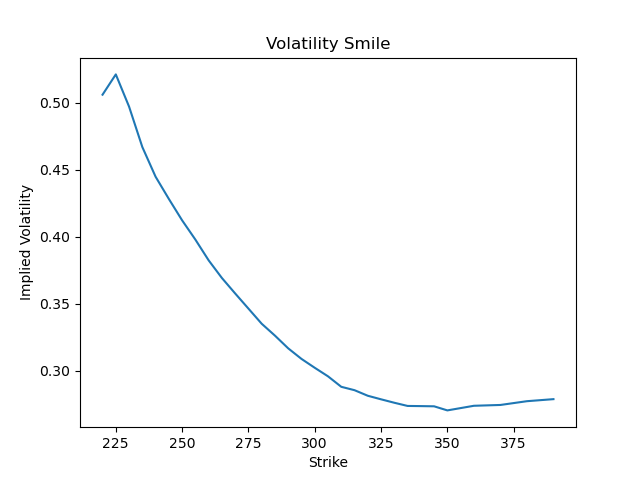
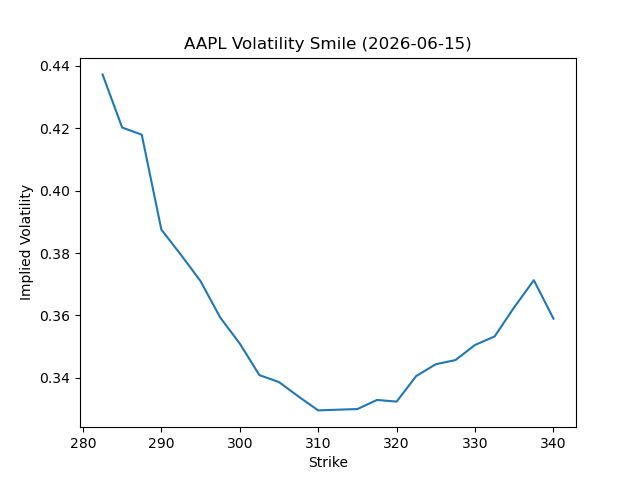
Fix IV solver bounds, refactor market smile pipeline, polish docs

diff --git a/main.py b/main.py
@@ -5,46 +5,47 @@ from monte_carlo import MonteCarlo
 from vol_smile import VolSmile
 import numpy as np
 
-Testc = OptionContract(S=100, K=100, T=1, r=0.05, sigma=0.2, option_type='call')
-Testp = OptionContract(S=100, K=100, T=1, r=0.05, sigma=0.2, option_type='put')
-resultcbs = BlackScholes(Testc)
-resultpbs = BlackScholes(Testp)
-resultbc = Binomial(Testc, 1000)
-resultbp = Binomial(Testp, 1000)
-resultmcc = MonteCarlo(Testc)
-resultmcp = MonteCarlo(Testp)
-strikes = np.linspace(80, 120, 20)
-market_prices = [BlackScholes(OptionContract(100, i, 1, 0.05, 0.2 + 0.1 * ((i - 100) / 100) ** 2, 'call')).price() for i in strikes]
-pricec, cic = resultmcc.price_with_ci()
-pricep, cip = resultmcp.price_with_ci()
+if __name__ == "__main__":
+    Testc = OptionContract(S=100, K=100, T=1, r=0.05, sigma=0.2, option_type='call')
+    Testp = OptionContract(S=100, K=100, T=1, r=0.05, sigma=0.2, option_type='put')
+    resultcbs = BlackScholes(Testc)
+    resultpbs = BlackScholes(Testp)
+    resultbc = Binomial(Testc, 1000)
+    resultbp = Binomial(Testp, 1000)
+    resultmcc = MonteCarlo(Testc)
+    resultmcp = MonteCarlo(Testp)
+    strikes = np.linspace(80, 120, 20)
+    market_prices = [BlackScholes(OptionContract(100, i, 1, 0.05, 0.2 + 0.1 * ((i - 100) / 100) ** 2, 'call')).price() for i in strikes]
+    pricec, cic = resultmcc.price_with_ci()
+    pricep, cip = resultmcp.price_with_ci()
 
-print('\n===Black Scholes===')
-print(f'Call price: {resultcbs.price():.4f}')
-print(f'Put price: {resultpbs.price():.4f}')
-print('\n===Greeks===')
-print(f'Call: \nDelta: {resultcbs.delta():.4f}, Gamma: {resultcbs.gamma():.4f}, Vega = {resultcbs.vega():.4f}, Theta = {resultcbs.theta():.4f}, Rho = {resultcbs.rho():.4f}')
-print(f'Put: \nDelta: {resultpbs.delta():.4f}, Gamma: {resultpbs.gamma():.4f}, Vega = {resultpbs.vega():.4f}, Theta = {resultpbs.theta():.4f}, Rho = {resultpbs.rho():.4f}')
-print('\n===Binomial===')
-print(f'European Call price: {resultbc.price():.4f}')
-print(f'European Put price: {resultbp.price():.4f}')
-print(f'American Call price: {resultbc.price_american():.4f}') #Added for completleness, in reality never optimal to exit early
-print(f'American Put price: {resultbp.price_american():.4f}')
-print('\n===Monte Carlo===')
-print(f'European Call price: {resultmcc.price():.4f}')
-print(f'European Put price: {resultmcp.price():.4f}')
-print(f'European Call 95% CI: [{cic[0]:.4f}, {cic[1]:.4f}]')
-print(f'European Put 95% CI: [{cip[0]:.4f}, {cip[1]:.4f}]')
-print(f'Asian Call price: {resultmcc.price_asian():.4f}')
-print(f'Asian Put price: {resultmcp.price_asian():.4f}')
-print(f'Barrier Call price: {resultmcc.price_barrier(90, "d_o"):.4f}')
-print(f'Barrier Put price: {resultmcp.price_barrier(90, "d_o"):.4f}')
-print('\n===IV Solver===')
-print(f'Implied Volatility: {resultcbs.IV_solver(resultcbs.price()):.4f}')
-print('\n===Volatility Smile===')
-print('Generating volatility smile plots: one synthetic, one from real AAPL market data...')
-VolSmile(Testc, strikes, market_prices).plot()
-VolSmile(Testc, strikes, market_prices).plot_market_smile('AAPL', '2026-09-18')
-print('\n===Convergence Plots===')
-print('Generating convergence plots for Binomial and Monte Carlo...')
-resultbc.plot_convergence()
-resultmcc.plot_convergence()
+    print('\n===Black Scholes===')
+    print(f'Call price: {resultcbs.price():.4f}')
+    print(f'Put price: {resultpbs.price():.4f}')
+    print('\n===Greeks===')
+    print(f'Call: \nDelta: {resultcbs.delta():.4f}, Gamma: {resultcbs.gamma():.4f}, Vega = {resultcbs.vega():.4f}, Theta = {resultcbs.theta():.4f}, Rho = {resultcbs.rho():.4f}')
+    print(f'Put: \nDelta: {resultpbs.delta():.4f}, Gamma: {resultpbs.gamma():.4f}, Vega = {resultpbs.vega():.4f}, Theta = {resultpbs.theta():.4f}, Rho = {resultpbs.rho():.4f}')
+    print('\n===Binomial===')
+    print(f'European Call price: {resultbc.price():.4f}')
+    print(f'European Put price: {resultbp.price():.4f}')
+    print(f'American Call price: {resultbc.price_american():.4f}') #Added for completeness, in reality never optimal to exit early (assuming no dividends)
+    print(f'American Put price: {resultbp.price_american():.4f}')
+    print('\n===Monte Carlo===')
+    print(f'European Call price: {resultmcc.price():.4f}')
+    print(f'European Put price: {resultmcp.price():.4f}')
+    print(f'European Call 95% CI: [{cic[0]:.4f}, {cic[1]:.4f}]')
+    print(f'European Put 95% CI: [{cip[0]:.4f}, {cip[1]:.4f}]')
+    print(f'Asian Call price: {resultmcc.price_asian():.4f}')
+    print(f'Asian Put price: {resultmcp.price_asian():.4f}')
+    print(f'Barrier Call price: {resultmcc.price_barrier(90, "d_o"):.4f}')
+    print(f'Barrier Put price: {resultmcp.price_barrier(90, "d_o"):.4f}')
+    print('\n===IV Solver===')
+    print(f'Implied Volatility: {resultcbs.iv_solver(resultcbs.price()):.4f}')
+    print('\n===Volatility Smile===')
+    print('Generating volatility smile plots: one synthetic, one from real AAPL market data...')
+    VolSmile(Testc, strikes, market_prices).plot()
+    VolSmile(Testc, strikes, market_prices).plot_market_smile('AAPL')
+    print('\n===Convergence Plots===')
+    print('Generating convergence plots for Binomial and Monte Carlo...')
+    resultbc.plot_convergence()
+    resultmcc.plot_convergence()

diff --git a/vol_smile.py b/vol_smile.py
@@ -3,6 +3,7 @@ from option_contract import OptionContract
 from black_scholes import BlackScholes 
 import matplotlib.pyplot as plt
 import yfinance as yf
+from datetime import datetime
 
 class VolSmile:
     def __init__(self, option: OptionContract, strike_prices: np.ndarray, market_prices: np.ndarray):
@@ -15,7 +16,7 @@ class VolSmile:
             S, T, r, sigma, option_type = self.option.S, self.option.T, self.option.r, self.option.sigma, self.option.option_type
             contract = OptionContract(S, K, T, r, sigma, option_type)
             bs = BlackScholes(contract)
-            iv = bs.IV_solver(market_price)
+            iv = bs.iv_solver(market_price)
             ivs.append(iv)
         return np.array(ivs)
     def plot(self):
@@ -25,14 +26,36 @@ class VolSmile:
         plt.ylabel('Implied Volatility')
         plt.title('Volatility Smile')
         plt.show()
-    def plot_market_smile(self, ticker: str, expiry: str):
+    def plot_market_smile(self, ticker: str, expiry: str = None):
         tk = yf.Ticker(ticker)
+        if expiry is None:
+            expiry = tk.options[3]
         chain = tk.option_chain(expiry)
         calls = chain.calls
         spot = tk.info['currentPrice']
-        calls = calls[(calls['strike'] > 0.7 * spot) & (calls['strike'] < 1.3 * spot)]
-        plt.plot(calls['strike'], calls['impliedVolatility'])
+        T = (datetime.strptime(expiry, '%Y-%m-%d') - datetime.today()).total_seconds() / (365 * 24 * 3600)
+        calls = calls[
+            (calls['strike'] > 0.7 * spot) &
+            (calls['strike'] < 1.3 * spot) &
+            (calls['bid'] > 0) &
+            (calls['ask'] > 0)
+        ].copy()
+        mid_prices = (calls['bid'] + calls['ask']) / 2
+        r = self.option.r
+        sigma_init = self.option.sigma
+        ivs = []
+        for K, market_price in zip(calls['strike'], mid_prices):
+            try:
+                contract = OptionContract(spot, K, T, r, sigma_init, 'call')
+                iv = BlackScholes(contract).iv_solver(market_price)
+            except (ValueError, RuntimeError):
+                iv = np.nan
+            ivs.append(iv)
+        strikes = calls['strike'].to_numpy()
+        ivs = np.array(ivs)
+        mask = ~np.isnan(ivs)
+        plt.plot(strikes[mask], ivs[mask])
         plt.xlabel('Strike')
         plt.ylabel('Implied Volatility')
-        plt.title('Volatility Smile')
+        plt.title(f'{ticker} Volatility Smile ({expiry})')
         plt.show()

diff --git a/black_scholes.py b/black_scholes.py
@@ -51,12 +51,15 @@ class BlackScholes:
         else:
             rho = -K * T * np.exp(-r * T) * norm.cdf(-d2)
         return rho / 100 #per 1% change in risk-free interest rate
-    def IV_solver(self, market_price):
+    def iv_solver(self, market_price):
         original_sigma = self.option.sigma
         sigma = self.option.sigma
         tolerance = 1e-6
         max_iter = 1000
-        intrinsic = max(self.option.S - self.option.K, 0) if self.option.option_type == 'call' else max (self.option.K - self.option.S, 0) 
+        if self.option.option_type == 'call':
+            intrinsic = max(self.option.S - self.option.K * np.exp(-self.option.r * self.option.T), 0)
+        else:
+            intrinsic = max(self.option.K * np.exp(-self.option.r * self.option.T) - self.option.S, 0)
         if market_price < intrinsic:
             raise ValueError('Market Price is lower than intrinsic value')
         if self.option.option_type == 'call' and market_price > self.option.S:

diff --git a/binomial.py b/binomial.py
@@ -55,7 +55,7 @@ class Binomial:
         plt.plot(N_values, prices)
         plt.xlabel("Number of Steps")
         plt.ylabel("Estimated Option Price")
-        plt.title("Binomial Stock Price per Step")
+        plt.title("Option Price")
         plt.axhline(y = bs_price, color = 'r', linestyle = '--', label = 'Black-Scholes')
         plt.legend()
         plt.show()  

diff --git a/monte_carlo.py b/monte_carlo.py
@@ -76,7 +76,7 @@ class MonteCarlo:
         return price, ci
     def plot_convergence(self):
         N_values = range(20, 10000, 20)
-        prices = [MonteCarlo(self.option, n_simulations=N, seed=42).price() for N in N_values]
+        prices = [MonteCarlo(self.option, n_simulations=N).price() for N in N_values]
         bs_price = BlackScholes(self.option).price()
         plt.plot(N_values, prices)
         plt.xlabel("Number of Simulations")

diff --git a/README.md b/README.md
@@ -1,6 +1,6 @@
 # Option Pricing Library
 A Python derivatives pricing library implementing analytical, numerical and simulation based methods for pricing financial options.
-Built independently after approximately one week of learning Python.
+Built independently in Python, drawing on stochastic calculus and derivatives pricing theory from my BSc in Statistics, Economics and Finance at UCL.
 
 ## Features
 